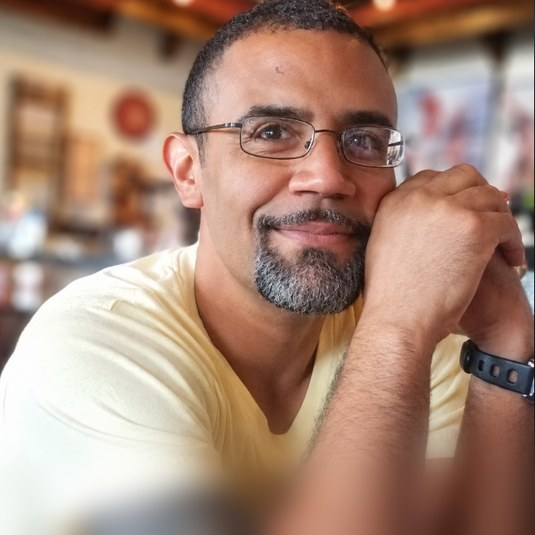
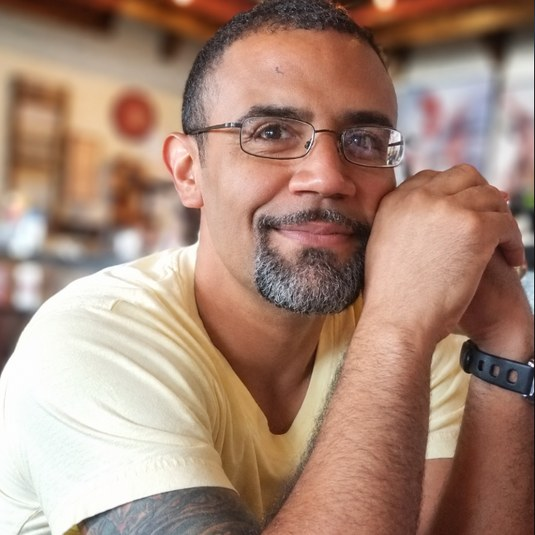
About: remove bottom blur from all leadership photos
Claude-Session: https://claude.ai/code/session_01YXHXMRuwfuFx1RTxhNLRGp

diff --git a/about.html b/about.html
@@ -139,8 +139,8 @@ a{color:#2F4858}a:hover{color:#1E3240}
   <section style="max-width: 1200px; margin: 0 auto; padding: 0 24px 64px; display: flex; flex-direction: column; gap: 28px">
     <h2 style="margin: 0; font-family: 'Libre Baskerville', serif; font-size: 32px">Our leadership</h2>
     <div style="display: grid; grid-template-columns: repeat(auto-fit, minmax(260px, 1fr)); gap: 24px">
-            <div style="display: flex; flex-direction: column; gap: 10px"><img src="assets/pastor-tricia.jpg" alt="Pastor Tricia Persram" width="535" height="535" loading="lazy" style="width: 100%; height: auto; aspect-ratio: 1 / 1; object-fit: cover; border-radius: 14px; display: block"><span style="font-family: 'Libre Baskerville', serif; font-size: 20px; font-weight: 700">Tricia Persram</span><span style="font-size: 16px; color: #4F6676">Family Care Pastor</span><span style="font-size: 15px; line-height: 1.5; color: #3B5566">Oversees Children, Youth &amp; Next Generation and Care &amp; Compassion</span></div>
-      <div style="display: flex; flex-direction: column; gap: 10px"><img src="assets/pastor-dan.jpg" alt="Pastor Dan Nuñez" width="535" height="535" loading="lazy" style="width: 100%; height: auto; aspect-ratio: 1 / 1; object-fit: cover; border-radius: 14px; display: block"><span style="font-family: 'Libre Baskerville', serif; font-size: 20px; font-weight: 700">Dan Nuñez</span><span style="font-size: 16px; color: #4F6676">Connection Pastor</span><span style="font-size: 15px; line-height: 1.5; color: #3B5566">Oversees Fellowship, Evangelism &amp; Missions and Community Transformation</span></div>
+            <div style="display: flex; flex-direction: column; gap: 10px"><img src="assets/pastor-tricia.jpg?v=2" alt="Pastor Tricia Persram" width="535" height="535" loading="lazy" style="width: 100%; height: auto; aspect-ratio: 1 / 1; object-fit: cover; border-radius: 14px; display: block"><span style="font-family: 'Libre Baskerville', serif; font-size: 20px; font-weight: 700">Tricia Persram</span><span style="font-size: 16px; color: #4F6676">Family Care Pastor</span><span style="font-size: 15px; line-height: 1.5; color: #3B5566">Oversees Children, Youth &amp; Next Generation and Care &amp; Compassion</span></div>
+      <div style="display: flex; flex-direction: column; gap: 10px"><img src="assets/pastor-dan.jpg?v=2" alt="Pastor Dan Nuñez" width="535" height="535" loading="lazy" style="width: 100%; height: auto; aspect-ratio: 1 / 1; object-fit: cover; border-radius: 14px; display: block"><span style="font-family: 'Libre Baskerville', serif; font-size: 20px; font-weight: 700">Dan Nuñez</span><span style="font-size: 16px; color: #4F6676">Connection Pastor</span><span style="font-size: 15px; line-height: 1.5; color: #3B5566">Oversees Fellowship, Evangelism &amp; Missions and Community Transformation</span></div>
       <div style="display: flex; flex-direction: column; gap: 10px"><img src="assets/admin-ismael.jpg?v=4" alt="Ismael Adorno, Church Administrator" width="535" height="535" loading="lazy" style="width: 100%; height: auto; aspect-ratio: 1 / 1; object-fit: cover; border-radius: 14px; display: block"><span style="font-family: 'Libre Baskerville', serif; font-size: 20px; font-weight: 700">Ismael Adorno</span><span style="font-size: 16px; color: #4F6676">Church Administrator</span><span style="font-size: 15px; line-height: 1.5; color: #3B5566">Supports our pastors and the church family through church operations and administration</span></div>
     </div>
   </section>
